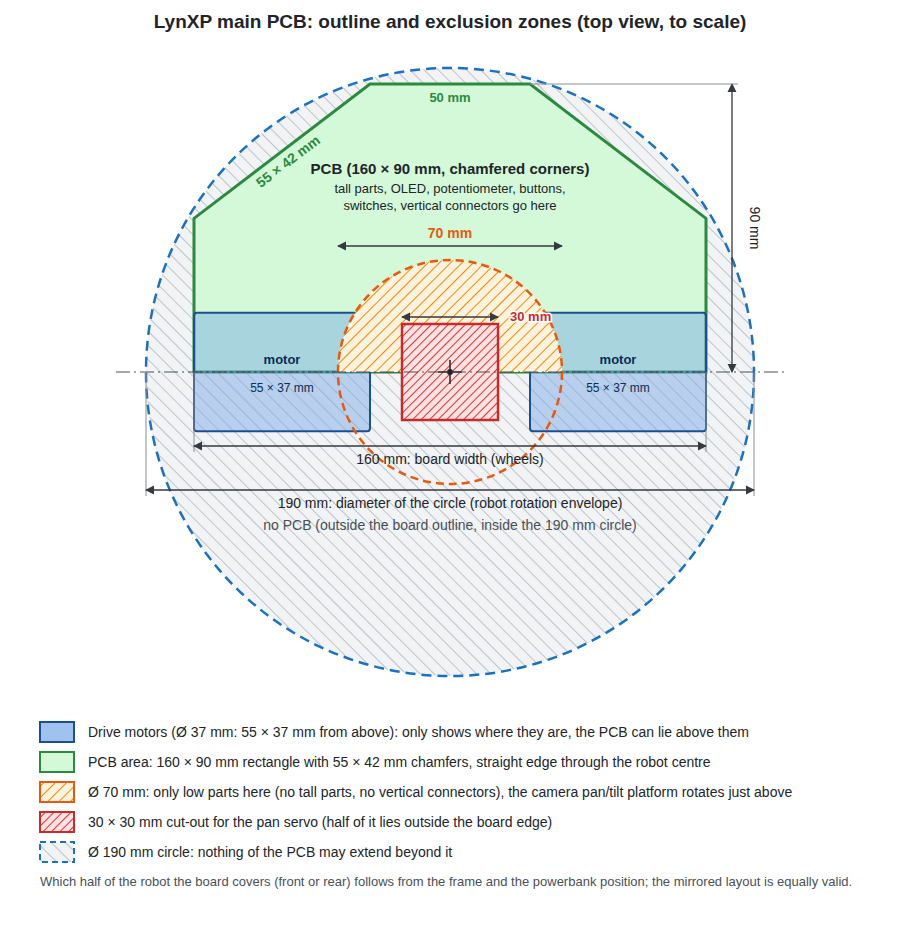
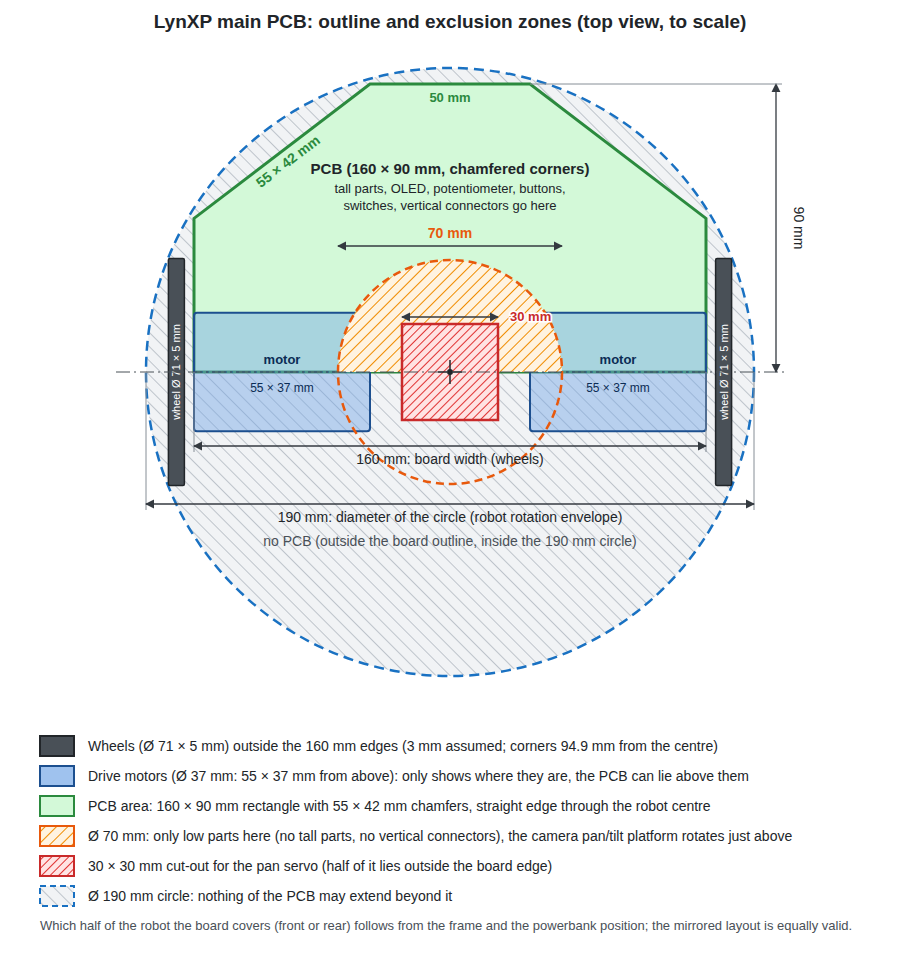
PCB requirements: show the wheels in the top view
Claude-Session: https://claude.ai/code/session_019TSqmhWQzu9b46bPfcjgtr

Changed region(s): [[0.0311, 0.0624, 0.9644, 0.9667], [0.1867, 0.0, 0.84, 0.0312]]

diff --git a/Schematic/PCB_requirements.md b/Schematic/PCB_requirements.md
@@ -476,6 +476,12 @@ be made smaller to make this possible.
   the outer 160 mm edges. They are **not an exclusion zone**: the PCB is mounted above them, so
   board and parts can overlap them in top view (mind the height of parts above the motors and the
   motor connectors, §8.2). They are drawn in the figure only to show where the motors are.
+- **Wheels (for orientation only)**: Ø 71 mm and 5 mm thick (O-ring tyre included), seen from above
+  a 5 × 71 mm rectangle each, centred on the wheel axis and a few mm outside the 160 mm edges
+  (drawn with a 3 mm gap, so a track width of about 171 mm; *verify against the CAD*). With a
+  3 mm gap the outer wheel corners are 94.9 mm from the robot centre, so the wheels just fit
+  inside the 190 mm circle (a gap of more than about 3 mm would stick out of it). They are
+  drawn to show where the wheels are; the board stays clear of them.
 - The mounting holes (3.2 mm on a 10 mm grid, see above) and the standoffs follow the frame and
   remain inside the same circle. The motor connectors (§8.2), the main switch, the USB-C ports and
   the large user buttons stay reachable at the board edge with the robot assembled.
